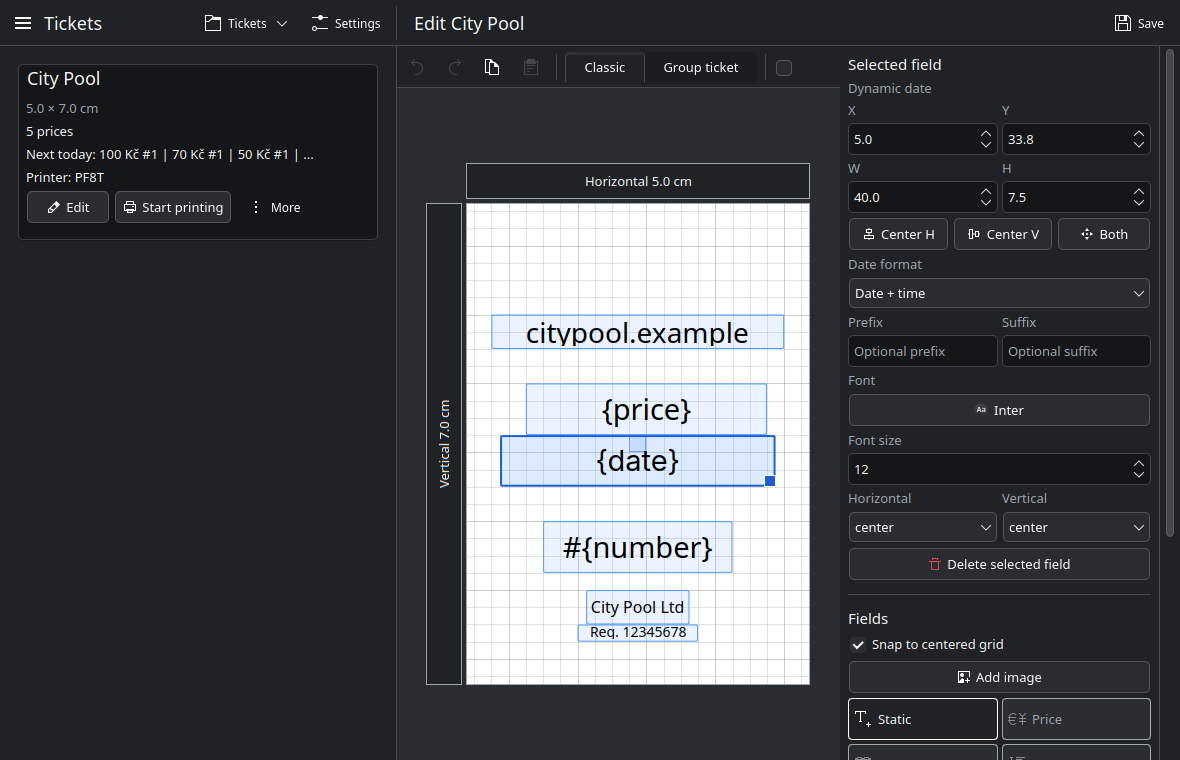
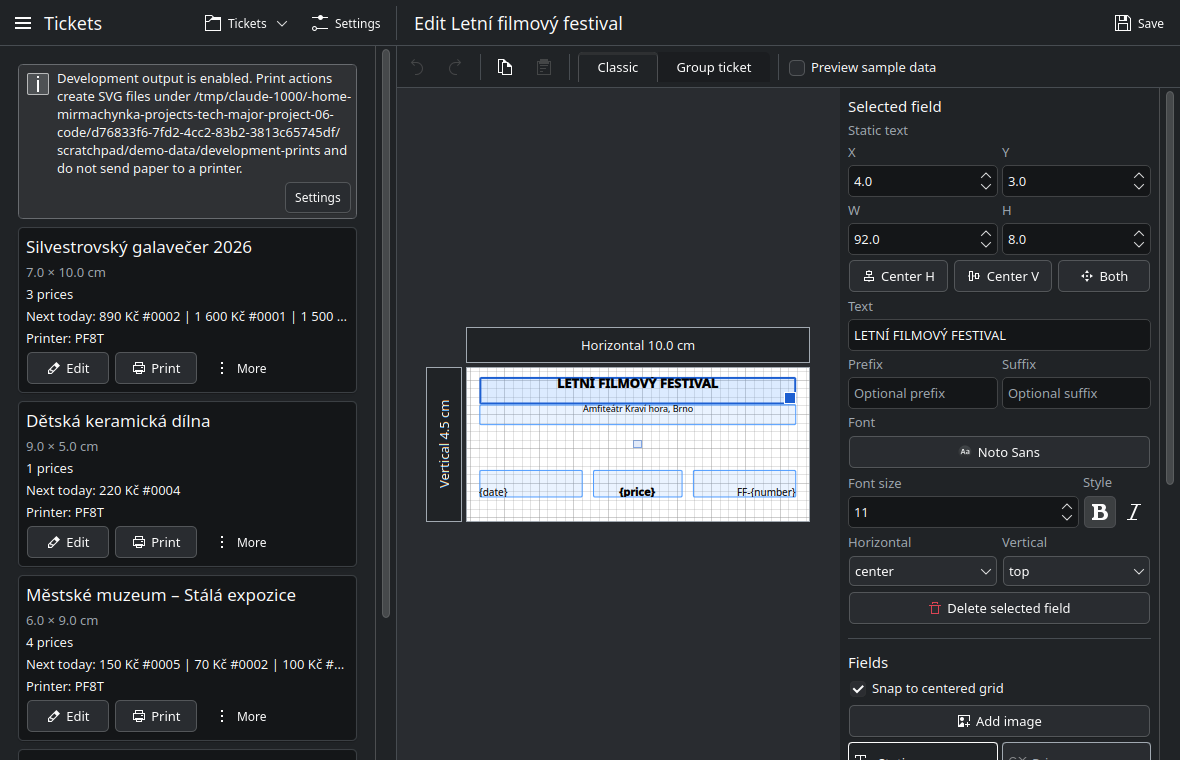
Refresh README screenshots with realistic demo data, broaden hero line
The old screenshots used placeholder data with unrealistic numbers
(a single ticket selling 1122 copies in three days). Regenerated all
four against a seeded demo dataset spanning four ticket designs,
two months of varied sales, group tickets, and record-only entries,
so the screens show something a real box office would recognize.

Also rewrote the hero line: it described only sequential numbering,
which undersells everything else the app does (selling, multi-
currency pricing, sales history).

diff --git a/README.md b/README.md
@@ -5,7 +5,7 @@
   <img src="crates/ticket-kde/src/qml/assets/logo-light.svg" alt="AdmitPress" width="360">
 </picture>
 
-**Design admission tickets and print them in sequence, so every ticket leaving the printer carries the next number.**
+**Design, sell, and print admission tickets from one desktop app — sequential numbering, group tickets, multi-currency pricing, and a full sales record included.**
 
 [![License](https://img.shields.io/badge/license-AGPL--3.0--only-blue)](LICENSE)
 [![Platform](https://img.shields.io/badge/platform-Linux-lightgrey)](#install)
